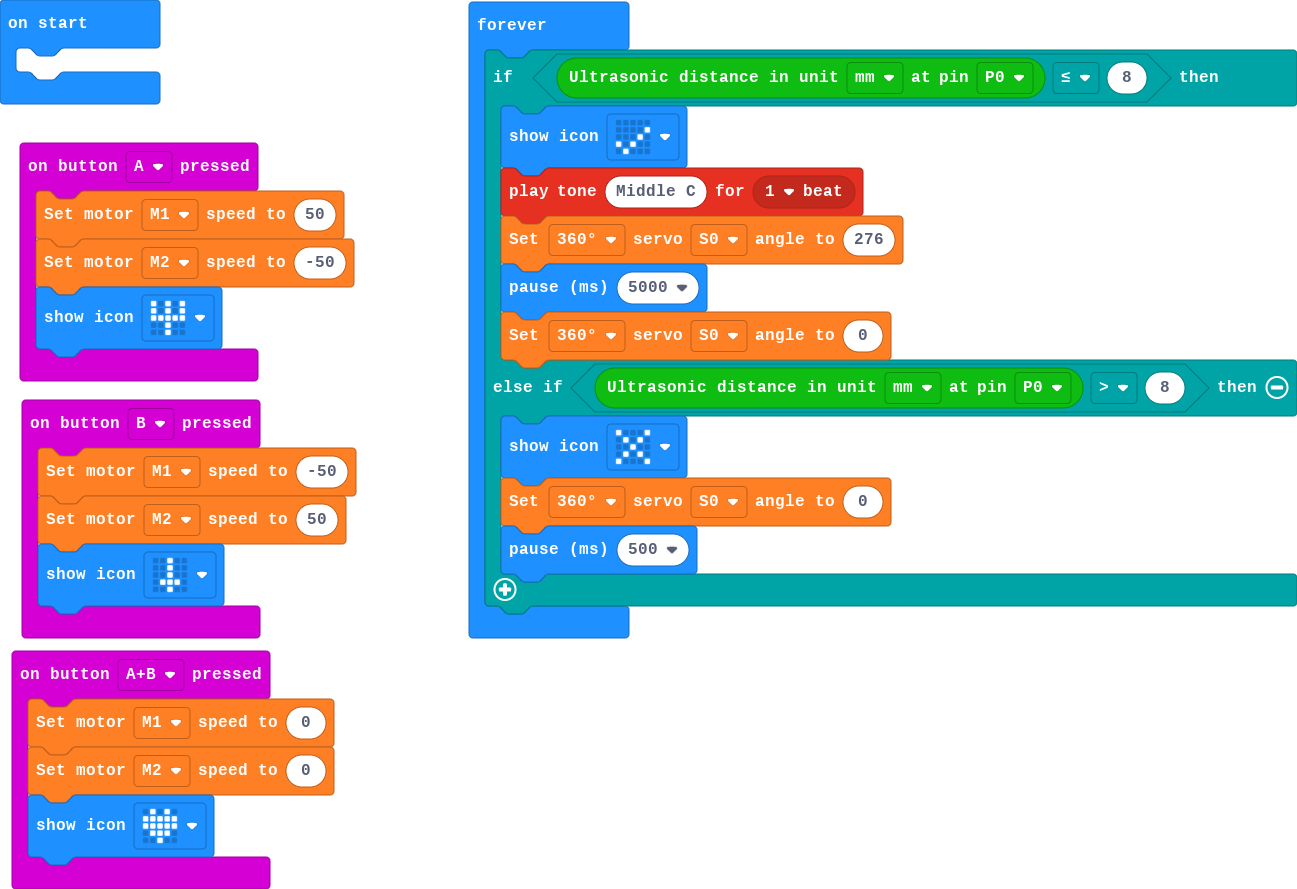
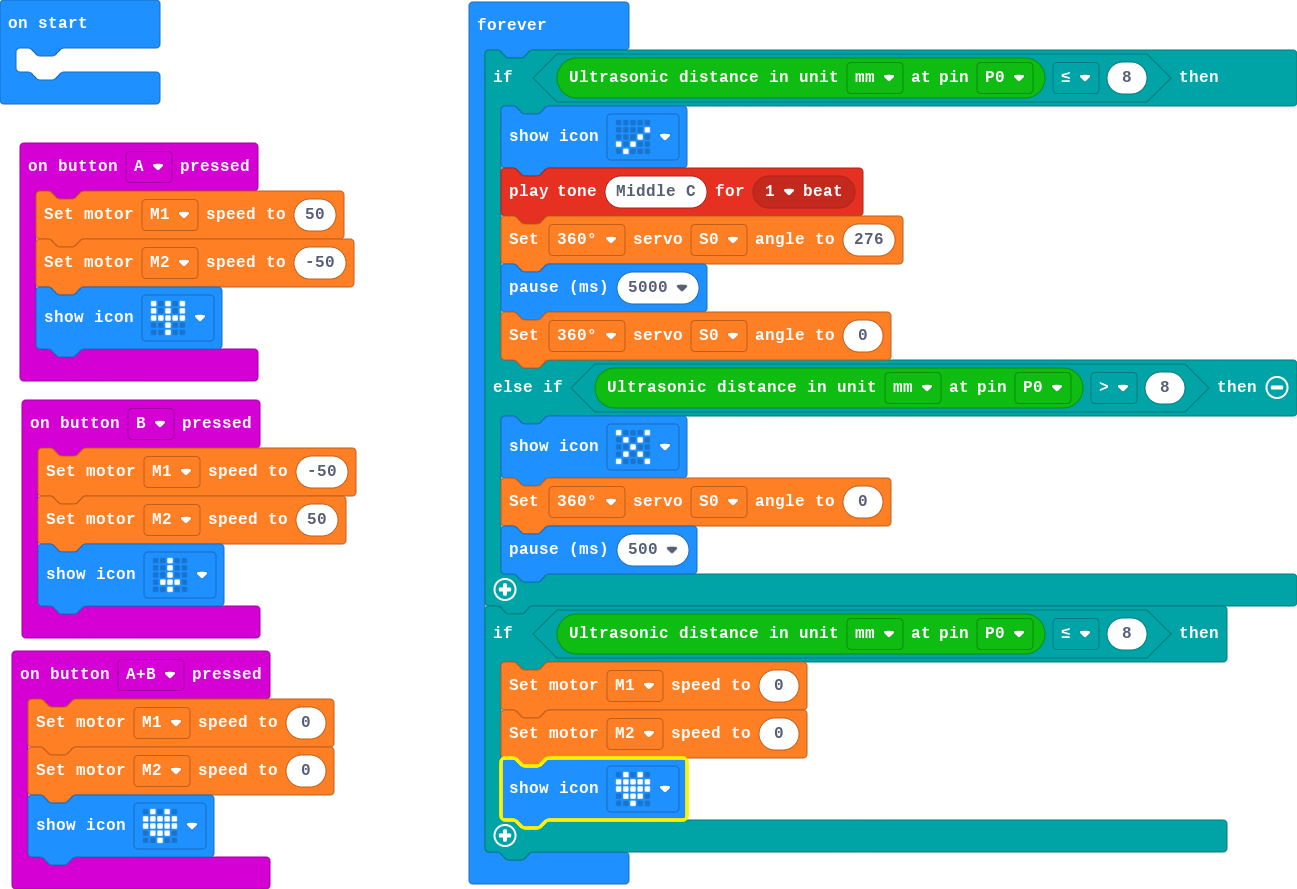
i made it so it auto detects people

Changed region(s): [[0.3392, 0.6682, 0.9561, 1.0]]

diff --git a/main.ts b/main.ts
@@ -25,4 +25,9 @@ basic.forever(function () {
         wuKong.setServoAngle(wuKong.ServoTypeList._360, wuKong.ServoList.S0, 0)
         basic.pause(500)
     }
+    if (sonarbit.sonarbit_distance(Distance_Unit.Distance_Unit_mm, DigitalPin.P0) <= 8) {
+        wuKong.setMotorSpeed(wuKong.MotorList.M1, 0)
+        wuKong.setMotorSpeed(wuKong.MotorList.M2, 0)
+        basic.showIcon(IconNames.Heart)
+    }
 })
